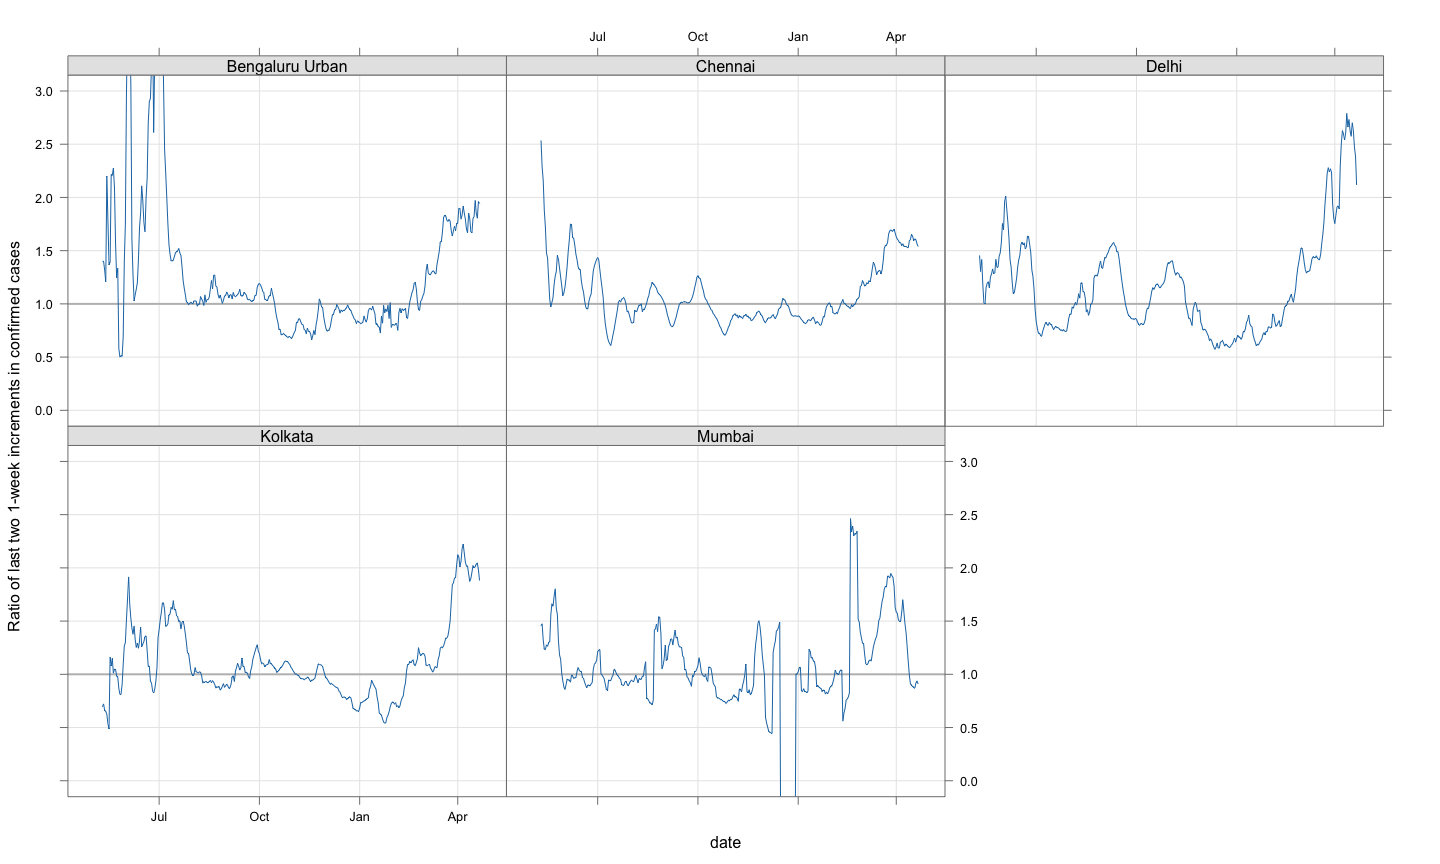
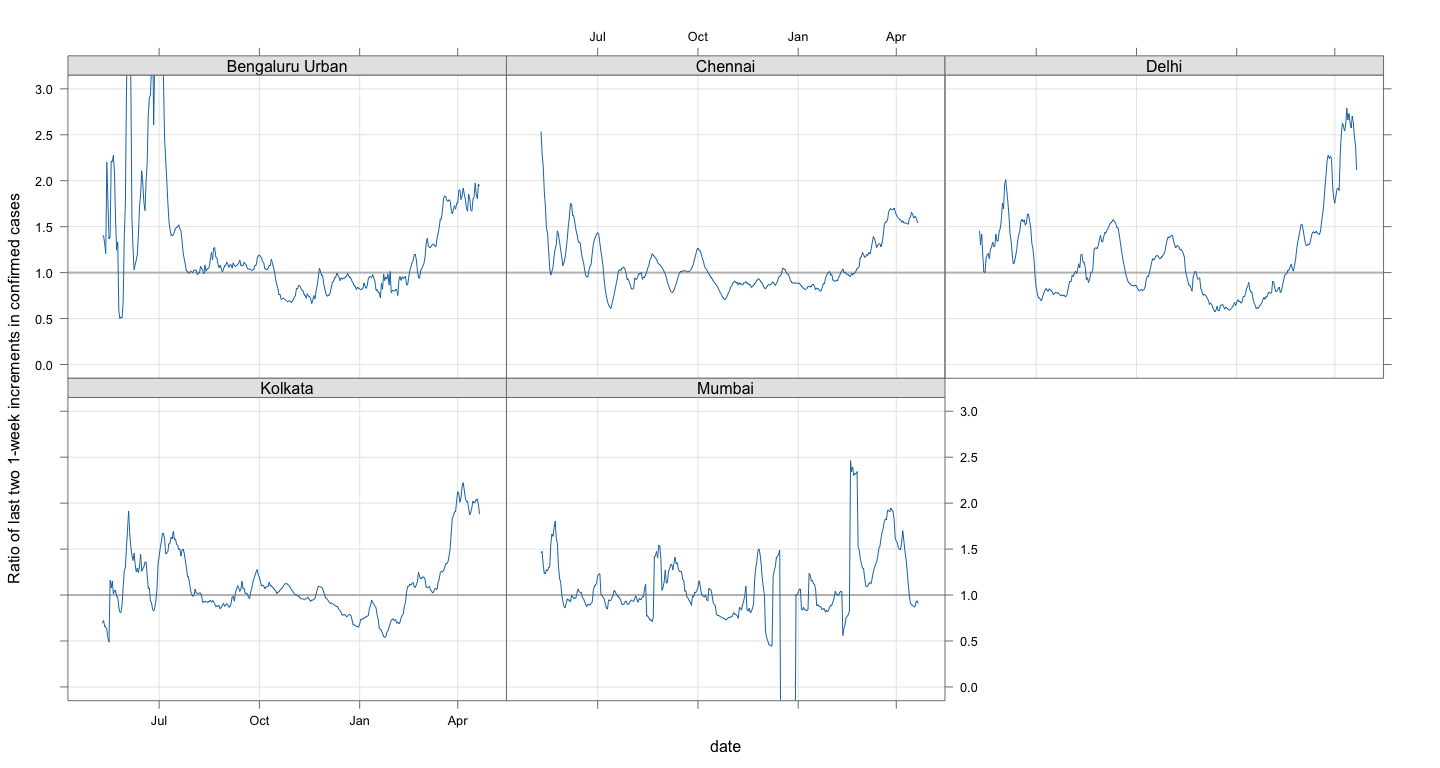
fig sizes + typos

diff --git a/covid-19/increment-ratio.html b/covid-19/increment-ratio.html
@@ -5,10 +5,6 @@ author: Deepayan Sarkar
 mathjax: true
 ---
 
-class: center middle
-
-# Measuring How Fast COVID Infections are Spreading in India
-
 
 
 
@@ -24,10 +20,12 @@ class: center middle
 	
 	- Something that should not depend on degree of systematic under-reporting
 
-	- Somthing that should not be affected by daily fluctuations and patterns
+	- Something that should not be overly affected by daily fluctuations and patterns
 
 
 * Measure used: number of new cases in _last seven days_ divided by number in _previous seven days_ 
+
+* Anything higher than 1 is bad on a sustained basis, but more than 2 is _really_ bad
 
 
 
@@ -41,7 +39,7 @@ class: center middle
 
 ---
 
-## Delhi, Maharashtra, Karnataka, West Bengal
+# Delhi, Maharashtra, Karnataka, West Bengal
 
 ![plot of chunk unnamed-chunk-3](figures/incratio-unnamed-chunk-3-1.png)
 
@@ -53,49 +51,21 @@ class: center middle
 .scrollable500[
 
 
-|                                         | current| last_week|
-|:----------------------------------------|-------:|---------:|
-|Lakshadweep                              |    9.08|      1.60|
-|Arunachal Pradesh                        |    5.37|      3.19|
-|Nagaland                                 |    4.80|      1.78|
-|Manipur                                  |    3.51|      2.43|
-|Sikkim                                   |    2.81|      1.70|
-|Assam                                    |    2.56|      4.62|
-|Bihar                                    |    2.54|      3.64|
-|Odisha                                   |    2.52|      2.87|
-|Meghalaya                                |    2.39|      4.60|
-|Kerala                                   |    2.38|      2.23|
-|Mizoram                                  |    2.26|      5.06|
-|Uttarakhand                              |    2.15|      2.17|
-|Dadra and Nagar Haveli and Daman and Diu |    2.13|      3.82|
-|Delhi                                    |    2.12|      2.73|
-|Andaman and Nicobar Islands              |    2.09|      2.42|
-|Andhra Pradesh                           |    2.09|      2.11|
-|Rajasthan                                |    2.09|      2.53|
-|Karnataka                                |    2.07|      1.68|
-|Haryana                                  |    2.03|      1.83|
-|Uttar Pradesh                            |    2.02|      3.41|
-|West Bengal                              |    1.96|      2.30|
-|Goa                                      |    1.95|      1.64|
-|Gujarat                                  |    1.87|      1.89|
-|Madhya Pradesh                           |    1.84|      2.01|
-|Telangana                                |    1.83|      2.06|
-|Jharkhand                                |    1.75|      2.52|
-|Ladakh                                   |    1.69|      3.40|
-|Puducherry                               |    1.66|      1.69|
-|Himachal Pradesh                         |    1.62|      1.65|
-|Tamil Nadu                               |    1.60|      1.79|
-|Jammu and Kashmir                        |    1.55|      1.79|
-|Punjab                                   |    1.41|      1.11|
-|Chandigarh                               |    1.36|      1.27|
-|Chhattisgarh                             |    1.14|      1.89|
-|Maharashtra                              |    1.11|      1.12|
-|Tripura                                  |    0.93|      3.28|
+```
+Error in order(rstates$current, decreasing = TRUE): argument 1 is not a vector
+```
 
 ]
 
 
 
+```
+Error in eval(substitute(subset), data, environment(x)): object 'total' not found
+```
+
+```
+Error in eval(expr, envir, enclos): object 'p' not found
+```
 
 ---
 
@@ -105,17 +75,29 @@ layout: true
 
 ---
 
-![plot of chunk unnamed-chunk-6](figures/incratio-unnamed-chunk-6-1.png)
 
----
-
-![plot of chunk unnamed-chunk-7](figures/incratio-unnamed-chunk-7-1.png)
-
----
-
-![plot of chunk unnamed-chunk-8](figures/incratio-unnamed-chunk-8-1.png)
+```
+Error in eval(expr, envir, enclos): object 'N' not found
+```
 
 ---
 
 
+```
+Error in eval(expr, envir, enclos): object 'N' not found
+```
+
+---
+
+
+```
+Error in eval(expr, envir, enclos): object 'N' not found
+```
+
+---
+
+
+```
+Error in eval(expr, envir, enclos): object 'N' not found
+```
 
